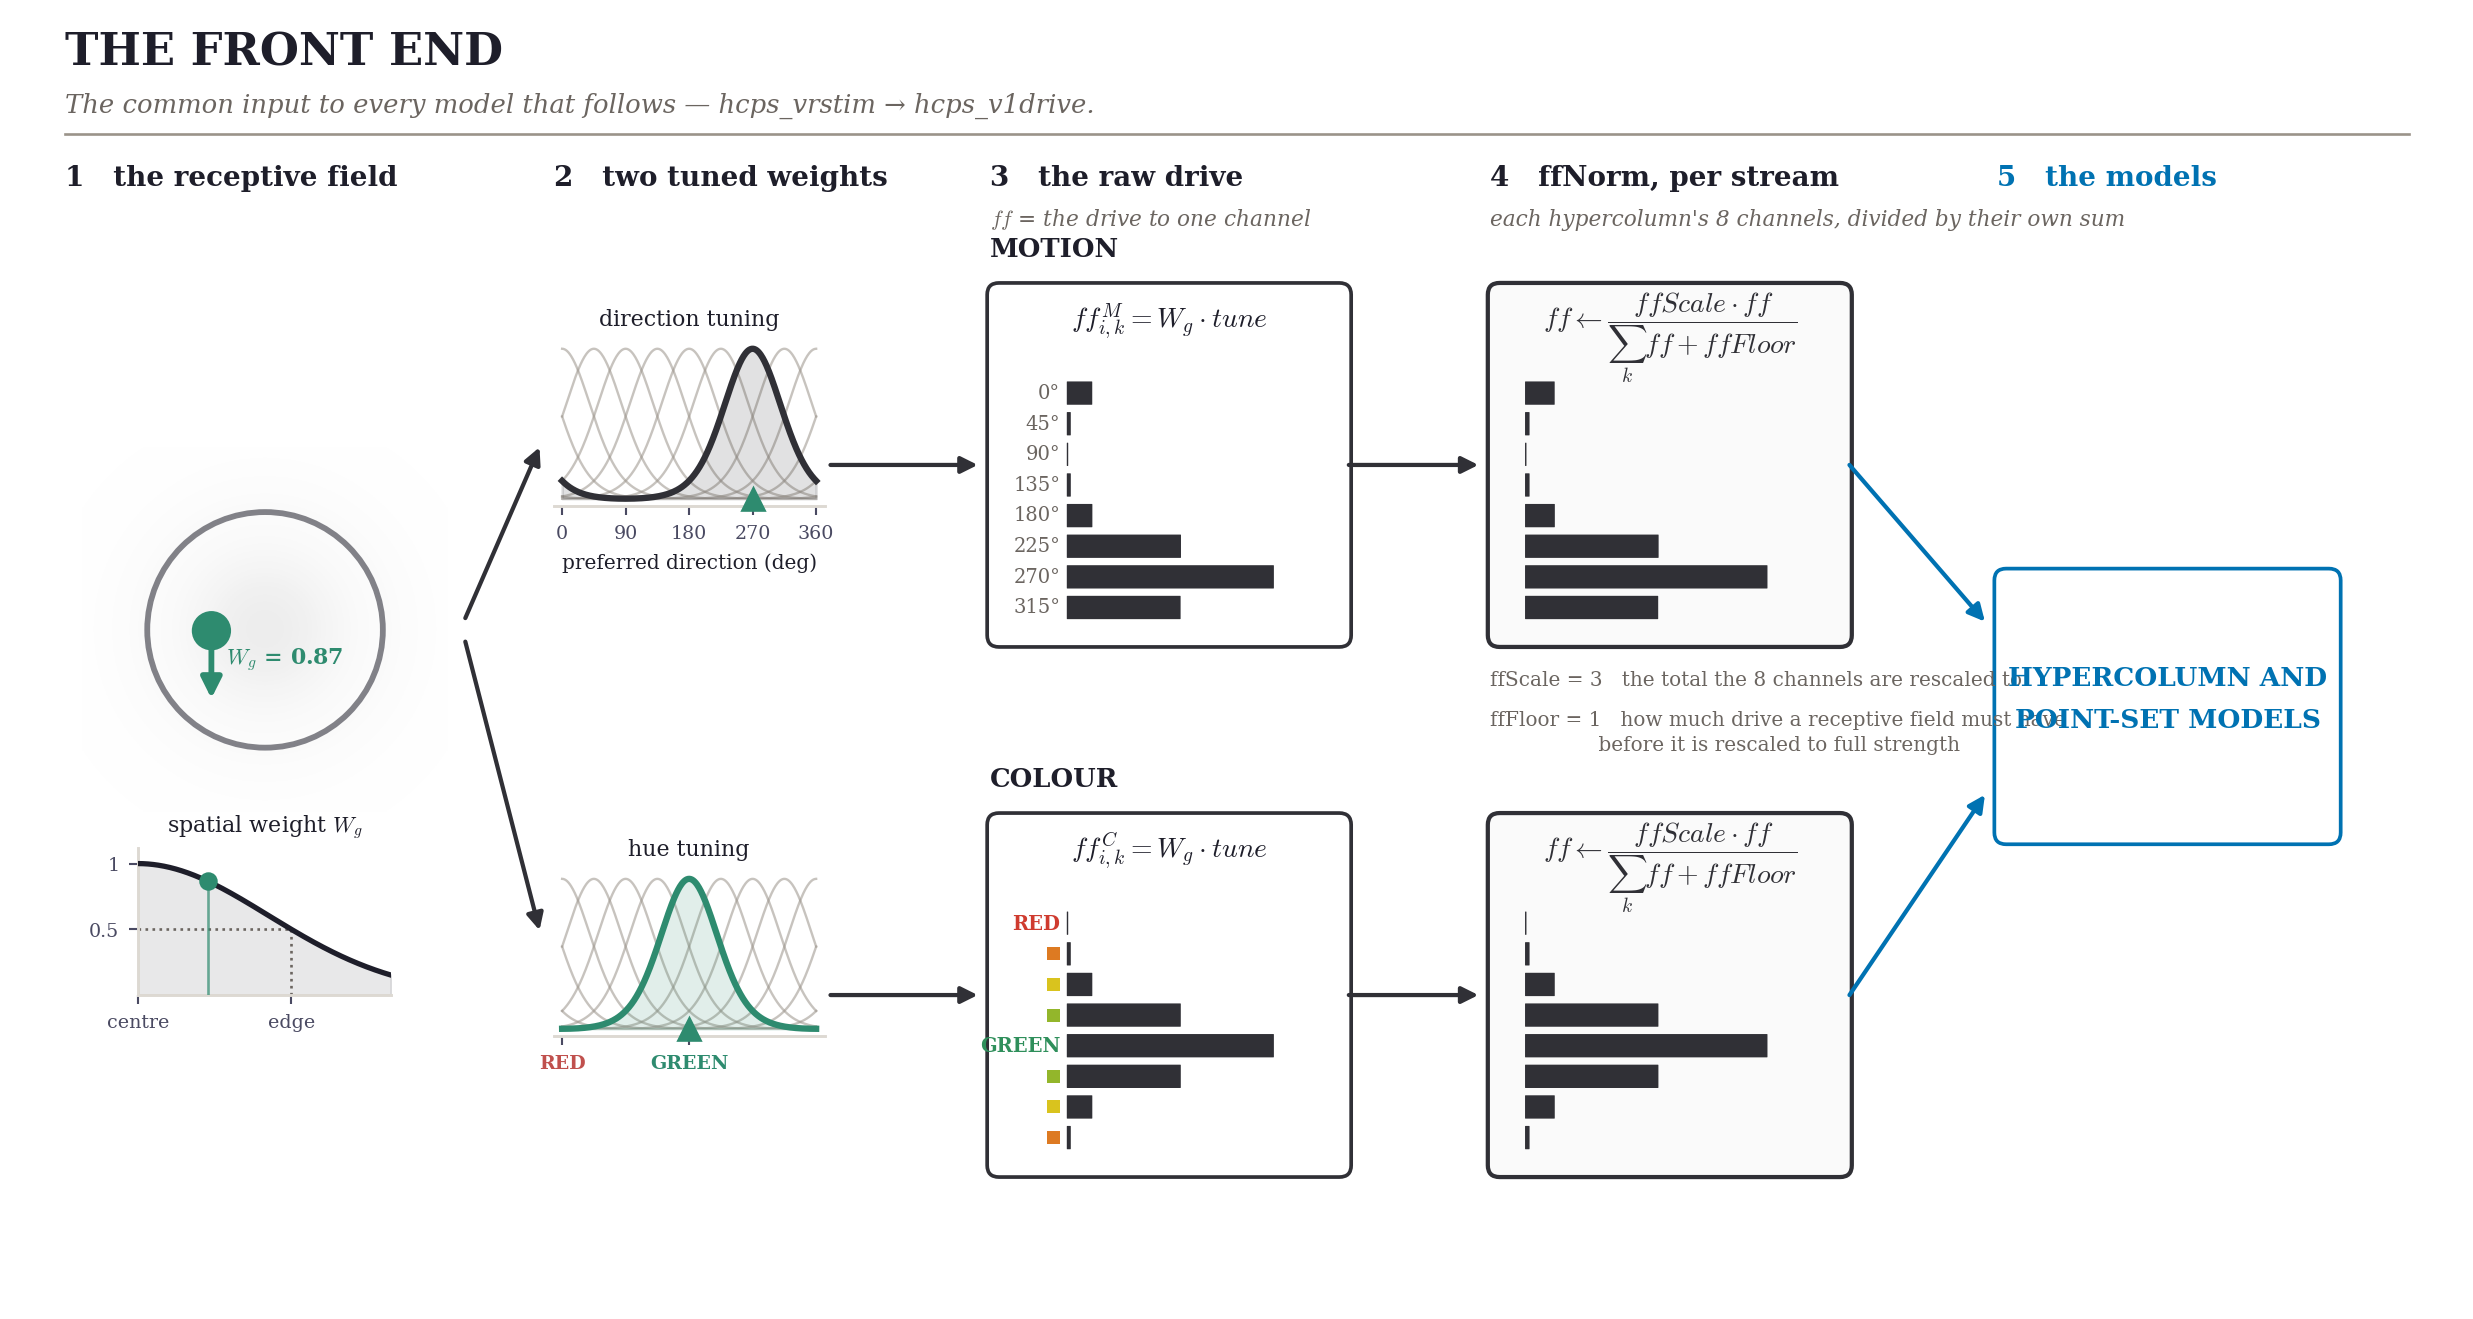
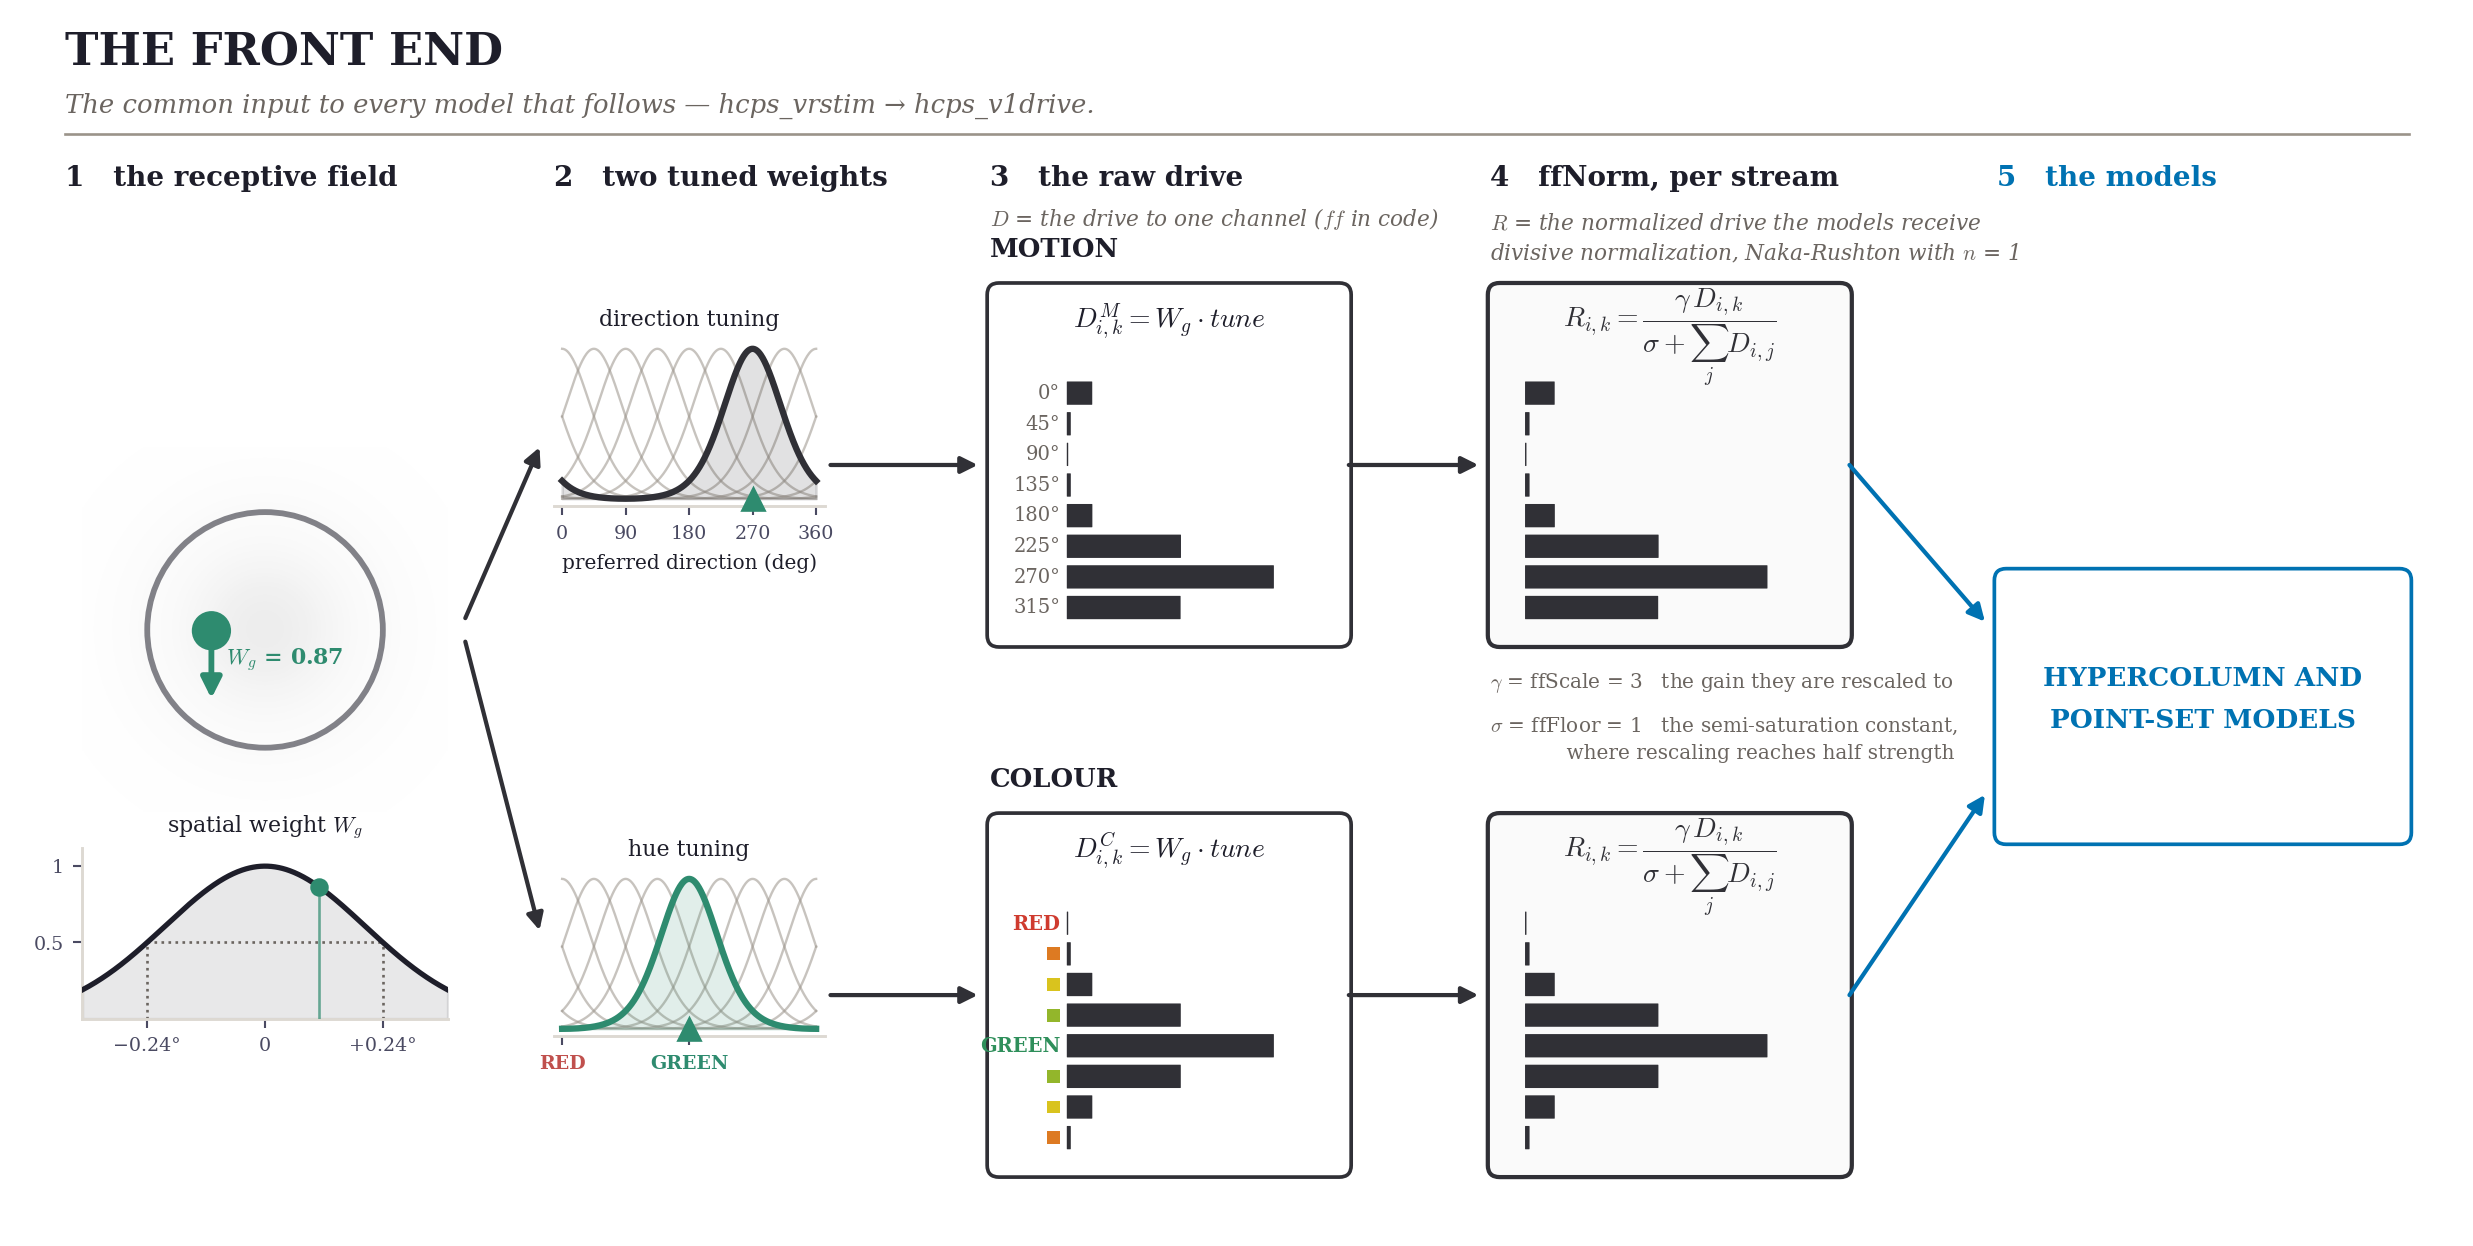
Front-end figure: canonical normalization symbols, full spatial profile, three layout fixes
THE NOTATION. GS: "is there maybe a better variable name? maybe use variable names
commonly associated with this type of normalization." The equation IS the canonical
divisive-normalization form -- Carandini & Heeger 2012, R_j = gamma*D_j^n /
(sigma^n + sum_k D_k^n) -- at n = 1, so the figure now draws it in those symbols and
gives the code names as the mapping. `ff` -> D, `ffScale` -> gamma, `ffFloor` -> sigma,
the semi-saturation constant. That naming is what makes the standing objection precise:
sigma = 1 while a single centred dot delivers a channel sum of 17.15, so an occupied
receptive field sits at 94.5% of the ceiling and every magnitude difference above it is
squeezed into the last 5%.

The MATLAB is deliberately NOT renamed -- Model A is validated and frozen, `ff` is honest
(it is the feedforward drive), and the CIRCUIT normalizer one stage later already uses
Rmax / sigNR / nV1 in the same parameter struct. Two stages, one form, two schemes.

⛔ THE ASSIGNMENT ARROW IS GONE. Panel 4 read "ff <- ..." , carried over from the MATLAB,
which overwrites the array in place. The literature never writes it that way and it left
panel 4's output unnamed. Now R_{i,k} = gamma*D_{i,k} / (sigma + sum_j D_{i,j}): panel 3
makes D, panel 4 makes R, panel 5 takes R. Indexed i,k to match panel 3, and the i is
carried into the sum because the pool is PER POINT-SET -- the only thing on the figure
that now says so, since a third subtitle line does not fit above the motion box.
[…]

diff --git a/Agents/Modeling/sb2010/ps_frontend_figure.py b/Agents/Modeling/sb2010/ps_frontend_figure.py
@@ -91,11 +91,16 @@ NB1 = tune(np.pi/4, KAPPA_HUE)/tune(0.0, KAPPA_HUE)      # +-45 deg neighbours
 NB2 = tune(np.pi/2, KAPPA_HUE)/tune(0.0, KAPPA_HUE)      # +-90 deg
 FLOOR_FRAC = NB2
 
-XL, YL = 21.0, 11.2
-fig = plt.figure(figsize=(XL*0.62, YL*0.62)); ax = fig.add_axes([0,0,1,1])
-ax.set_xlim(0,XL); ax.set_ylim(0,YL); ax.axis("off")
+# ⚠ YBOT CROPS, IT DOES NOT MOVE ANYTHING. The lowest content on the canvas is the colour box at
+# y = 1.225, so a canvas starting at 0 left a bottom margin more than twice the 0.55 the figure
+# keeps at its sides -- a dead band under the whole width. Raising the floor to YBOT trims it
+# without touching a single one of the layout coordinates below, which are all absolute.
+XL, YL, YBOT = 21.0, 11.2, 0.62
+fig = plt.figure(figsize=(XL*0.62, (YL-YBOT)*0.62)); ax = fig.add_axes([0,0,1,1])
+ax.set_xlim(0,XL); ax.set_ylim(YBOT,YL); ax.axis("off")
 def nx(x): return x/XL
-def ny(y): return y/YL
+def ny(y): return (y-YBOT)/(YL-YBOT)          # a POSITION on the canvas
+def nh(h): return h/(YL-YBOT)                 # a HEIGHT -- no offset. Do not use ny() for one.
 def box(x,y,w,h,ec,fc="white",lw=1.3,z=2):
     ax.add_patch(FancyBboxPatch((x,y),w,h,boxstyle="round,pad=0.02,rounding_size=0.10",
                  ec=ec,fc=fc,lw=lw,zorder=z))
@@ -155,7 +160,7 @@ X1, X2, X3, X4, X5 = 0.55, 4.70, 8.40, 12.65, 16.95
 
 # ---------------- 1 the receptive field, magnified ----------------
 ax.text(X1,HDR,"1   the receptive field",fontsize=10.5,weight="bold",color=INK)
-axr = fig.add_axes([nx(X1+0.15),ny(4.30),nx(3.10),ny(3.10)]); axr.set_aspect("equal")
+axr = fig.add_axes([nx(X1+0.15),ny(4.30),nx(3.10),nh(3.10)]); axr.set_aspect("equal")
 axr.set_xlim(-1.55,1.55); axr.set_ylim(-1.55,1.55); axr.axis("off")
 gg=np.linspace(-1.55,1.55,200); GX,GY=np.meshgrid(gg,gg)
 axr.imshow(np.exp(-(GX**2+GY**2)/(2*(RF_R_DEG/SIG_DEG*0.5)**2)),
@@ -174,31 +179,37 @@ axr.text(dx,dy-0.13,"  $W_g$ = %.2f"%WG,ha="left",va="top",fontsize=8.4,color=DC
 # ⭐ It is also self-checking. The circle is drawn at FWHM/2, so the curve MUST pass through 0.5
 # exactly where the circle's edge is; if it ever does not, the disc and the weighting have drifted
 # apart.
-axp = fig.add_axes([nx(X1+0.62),ny(2.75),nx(2.15),ny(1.25)])
-xx = np.linspace(0,1.65,300)
-wg = np.exp(-(xx*RF_R_DEG)**2/(2*SIG_DEG**2))
+# ⭐ GS 2026-08-28: "i think its better to show the full profile -- and show it scaled so that the
+# fall off is correctly portrayed." So the half-profile in centre/edge units is gone. This axes is
+# now placed at the SAME x-position and the SAME width as the disc above it (X1+0.15, 3.10 wide)
+# over the SAME span (+-1.55 RF radii, here written in degrees), so the two are drawn to ONE
+# spatial scale: drop a plumb line from the circle's edge and it lands on the 0.5 crossing.
+axp = fig.add_axes([nx(X1+0.15),ny(2.55),nx(3.10),nh(1.45)])
+XHALF = 1.55*RF_R_DEG                                  # degrees, = the disc panel's half-span
+xx = np.linspace(-XHALF,XHALF,401)
+wg = np.exp(-xx**2/(2*SIG_DEG**2))
 axp.plot(xx,wg,color=INK,lw=2.0,zorder=3)
 axp.fill_between(xx,wg,color=INK,alpha=0.10,zorder=2)
-axp.plot([1,1],[0,0.5],':',color=MUTE,lw=1.0,zorder=2)
-axp.plot([0,1],[0.5,0.5],':',color=MUTE,lw=1.0,zorder=2)
-d_ = OFF/RF_R_DEG
-axp.plot([d_,d_],[0,WG],'-',color=DCOL,lw=1.0,alpha=0.7,zorder=3)
-axp.plot(d_,WG,'o',ms=6,color=DCOL,zorder=5)
-axp.set_xlim(0,1.65); axp.set_ylim(0,1.12)
+for s_ in (-1,1): axp.plot([s_*RF_R_DEG]*2,[0,0.5],':',color=MUTE,lw=1.0,zorder=2)
+axp.plot([-RF_R_DEG,RF_R_DEG],[0.5,0.5],':',color=MUTE,lw=1.0,zorder=2)
+axp.plot([OFF,OFF],[0,WG],'-',color=DCOL,lw=1.0,alpha=0.7,zorder=3)
+axp.plot(OFF,WG,'o',ms=6,color=DCOL,zorder=5)
+axp.set_xlim(-XHALF,XHALF); axp.set_ylim(0,1.12)
 axp.set_yticks([0.5,1.0]); axp.set_yticklabels(["0.5","1"])
-axp.set_xticks([0,1]); axp.set_xticklabels(["centre","edge"])
+axp.set_xticks([-RF_R_DEG,0,RF_R_DEG])
+axp.set_xticklabels([u"−%.2f°"%RF_R_DEG,"0","+%.2f°"%RF_R_DEG])
 axp.tick_params(labelsize=7.2)
 for sp in ("top","right"): axp.spines[sp].set_visible(False)
 axp.set_title("spatial weight $W_g$",fontsize=8.4)
 
 # ---------------- 2 the tuned weights ----------------
 ax.text(X2,HDR,"2   two tuned weights",fontsize=10.5,weight="bold",color=INK)
-axv=fig.add_axes([nx(X2),ny(YM-0.35),nx(2.30),ny(1.40)])
+axv=fig.add_axes([nx(X2),ny(YM-0.35),nx(2.30),nh(1.40)])
 ghosted(axv,KAPPA,DIRV,STIM,"direction tuning")
 axv.set_xticks([0,90,180,270,360]); axv.set_xlabel("preferred direction (deg)",fontsize=7.6)
 axv.plot(np.degrees(DIRV)%360,0,'^',color=DCOL,ms=8,clip_on=False,zorder=6)
 
-axh=fig.add_axes([nx(X2),ny(YC-0.35),nx(2.30),ny(1.40)])
+axh=fig.add_axes([nx(X2),ny(YC-0.35),nx(2.30),nh(1.40)])
 ghosted(axh,KAPPA_HUE,HUE_DOT,GREEN,"hue tuning")
 axh.set_xticks([0,180]); axh.set_xticklabels(["RED","GREEN"])
 for lab,c in zip(axh.get_xticklabels(),[RED,GREEN]): lab.set_color(c); lab.set_weight("bold")
@@ -206,13 +217,18 @@ axh.plot(180,0,'^',color=GREEN,ms=8,clip_on=False,zorder=6)
 
 # ---------------- 3 raw drive ----------------
 ax.text(X3,HDR,"3   the raw drive",fontsize=10.5,weight="bold",color=INK)
-ax.text(X3,HDR-0.34,"$ff$ = the drive to one channel",fontsize=8.2,color=MUTE,style="italic")
+# ⭐ THE SYMBOLS ARE THE LITERATURE'S, NOT THE CODE'S. GS 2026-08-28 asked for "variable names
+# commonly associated with this type of normalization", so the drawn equations use Carandini &
+# Heeger's D / gamma / sigma and the CODE names are given once, here and in panel 4, as the
+# mapping. Drawing `ff` and `ffScale` made a reader who knows the form fail to recognise it.
+ax.text(X3,HDR-0.34,"$D$ = the drive to one channel ($ff$ in code)",
+        fontsize=8.2,color=MUTE,style="italic")
 ax.text(X3,YM+BH/2+0.24,"MOTION",fontsize=9.8,weight="bold",color=INK)
 ax.text(X3,YC+BH/2+0.24,"COLOUR",fontsize=9.8,weight="bold",color=INK)
 SC = 1.75/max(ffM_raw.max(),ffC_raw.max())
 for (yc_,vals,col,lab) in ((YM,ffM_raw,STIM,"M"),(YC,ffC_raw,STIM,"C")):
     box(X3,yc_-BH/2,BW,BH,col,"white",1.4)
-    ax.text(X3+BW/2,yc_+BH/2-0.36,r"$ff^{%s}_{i,k}=W_g\cdot tune$"%lab,fontsize=10.5,
+    ax.text(X3+BW/2,yc_+BH/2-0.36,r"$D^{%s}_{i,k}=W_g\cdot tune$"%lab,fontsize=10.5,
             color=INK,ha="center")
     bars(X3+0.66,yc_-BH/2+0.22,vals,col,SC,ticks=True,huelab=(lab=="C"))
 
@@ -223,8 +239,25 @@ ax.text(X4,HDR,"4   ffNorm, per stream",fontsize=10.5,weight="bold",color=INK)
 # ⚠ `ffScale` = 3 is a BARE LITERAL in `hcps_op.m`'s parameter struct with no derivation on
 # record, and the project's own note says `ffNorm = true` "was never argued". So the label states
 # its EFFECT -- the total each hypercolumn is rescaled to -- and claims no reason for the value.
-ax.text(X4,HDR-0.34,"each hypercolumn's 8 channels, divided by their own sum",
-        fontsize=8.2,color=MUTE,style="italic")
+# ⭐ NAMED FOR WHAT IT IS. GS 2026-08-28: "maybe use variable names commonly associated with this
+# type of normalization if appropriate in this context." It IS the canonical divisive-normalization
+# form -- Carandini & Heeger 2012 write R_j = gamma * D_j^n / (sigma^n + sum_k D_k^n), and this is
+# that with n = 1: `ff` is D, `ffScale` is the gain gamma, and `ffFloor` is the semi-saturation
+# constant sigma. Saying so costs one line and tells a reader who knows the literature that the
+# FORM needs no defence -- only the VALUE of sigma does.
+# ⚠ The MATLAB is deliberately NOT renamed. Model A is validated and frozen, `ff` is honest
+# (it is the feedforward drive, per `ps_extract`), and a rename across it buys no science. Note
+# though that the CIRCUIT normalizer one stage later already uses the literature names in the same
+# parameter struct -- `Rmax`, `sigNR`, `nV1` -- so the two stages run one form under two schemes.
+# ⚠ va="top" IS REQUIRED here. matplotlib anchors a multi-line string on its LAST baseline, so
+# adding the second line pushed the first one UP into the header row and straight through
+# "4  ffNorm, per stream" and "5  the models". Hanging it from the top makes it grow downward.
+# ⚠ TWO LINES IS THE CEILING. A third clears the motion box top (y = 8.775) by less than its
+# own descender. "each hypercolumn's 8 channels, divided by their own sum" was the line dropped
+# to make room: the equation's own sum_k says it, and the panel header already says "per stream".
+ax.text(X4,HDR-0.22,"$R$ = the normalized drive the models receive\n"
+        "divisive normalization, Naka-Rushton with $n$ = 1",
+        fontsize=8.2,color=MUTE,style="italic",va="top",linespacing=1.45)
 SN = 2.05/max(ffM_nrm.max(),ffC_nrm.max())
 for (yc_,vals,col) in ((YM,ffM_nrm,STIM),(YC,ffC_nrm,STIM)):
     box(X4,yc_-BH/2,BW,BH,col,"#fafafa",1.6)
@@ -232,26 +265,56 @@ for (yc_,vals,col) in ((YM,ffM_nrm,STIM),(YC,ffC_nrm,STIM)):
     # as to why it was set to 3". Naming them makes them visible AS constants -- and `ffFloor` in
     # particular is a knob, not a detail: it is what decides whether a faint input keeps its
     # magnitude or is rescaled to full strength. Values are given once, below.
-    ax.text(X4+BW/2,yc_+BH/2-0.44,r"$ff \leftarrow \dfrac{ffScale \cdot ff}{\sum_k ff + ffFloor}$",
+    # Carandini & Heeger 2012, R_j = gamma * D_j^n / (sigma^n + sum_k D_k^n), at n = 1.
+    # ⛔ NOT "D <- ...". The arrow was ASSIGNMENT, carried over from the MATLAB, which overwrites
+    # the array in place. The literature never writes it that way, and it left panel 4's output
+    # with no name at all -- the arrow into panel 5 was carrying an unnamed quantity. Panel 3 now
+    # makes D, panel 4 makes R, panel 5 takes R.
+    # ⚠ The free index and the summation index MUST differ: j runs over the channel being
+    # normalized, k over the pool it is divided by. The first version used k for both.
+    # ⚠ INDEXED i,k TO MATCH PANEL 3, and because the pool is PER POINT-SET. Panel 3 writes
+    # D^M_{i,k} with i the point-set and k the channel; a bare R_j here would have used a third
+    # letter for the same axis. Carrying i into the denominator's sum is also the only thing on
+    # the figure that says the 8 channels are divided by THEIR OWN total and not a global one --
+    # which is what the dropped subtitle line used to say.
+    ax.text(X4+BW/2,yc_+BH/2-0.44,
+            r"$R_{i,k} = \dfrac{\gamma\, D_{i,k}}{\sigma + \sum_j D_{i,j}}$",
             fontsize=10.5,color=col,ha="center",va="center")
     bars(X4+0.30,yc_-BH/2+0.22,vals,col,SN)
     if yc_ == YM:
         # ⚠ Named in the text rather than pointed at. Leader lines from here either cross the box
         # or land in the header row, which is what the first attempt did.
-        ax.text(X4,yc_-BH/2-0.22,"ffScale = %g   the total the 8 channels are rescaled to"%FFSCALE,
+        # ⚠ WIDTH IS LOAD-BEARING, and it was the bug. Panel 4's column runs X4 -> X5 = 4.30
+        # units wide; the earlier wording measured 4.49 and 4.85 and so ran straight underneath
+        # panel 5's box. Shortened until both fit -- "the 8 channels" is already said in this
+        # panel's own subtitle, so "they" carries it. Widest line is now 3.97. Re-measure with
+        # get_window_extent if this is reworded; the gap here is only 4.30 - 3.97 = 0.33.
+        ax.text(X4,yc_-BH/2-0.22,
+                "$\\gamma$ = ffScale = %g   the gain they are rescaled to"%FFSCALE,
                 fontsize=7.6,color=MUTE,va="top")
-        ax.text(X4,yc_-BH/2-0.56,"ffFloor = %g   how much drive a receptive field must have\n"
-                "                 before it is rescaled to full strength"%FFFLOOR,
-                fontsize=7.6,color=MUTE,va="top",linespacing=1.4)
+        # ⭐ `ffFloor` IS Naka-Rushton's semi-saturation constant, and exactly: the summed output
+        # is ffScale*S/(S + ffFloor), which is half of ffScale precisely when S = ffFloor. Naming
+        # it that is what makes GS's objection precise -- a single dot at the RF centre delivers
+        # S = 17.15, seventeen times above half-saturation, so an occupied receptive field sits at
+        # 94.5% of the ceiling and every magnitude difference above it is squeezed into the last
+        # 5%. That is the saturation horn of Grossberg's noise-saturation dilemma.
+        ax.text(X4,yc_-BH/2-0.60,
+                "$\\sigma$ = ffFloor = %g   the semi-saturation constant,\n"
+                "            where rescaling reaches half strength"%FFFLOOR,
+                fontsize=7.6,color=MUTE,va="top",linespacing=1.45)
 
 # ---------------- 5 the circuit ----------------
 # ⭐ GS: "lets have it feed into a generic Hypercolumn and Point-Set Models. this is the common
 # front end for the models to follow." So the last box names the FAMILY, not one circuit -- the
 # figure sits ahead of all of them and should not appear to belong to any one.
 ax.text(X5,HDR,"5   the models",fontsize=10.5,weight="bold",color=COOP)
-box(X5,4.05,2.90,2.30,COOP,"white",1.4)
-ax.text(X5+1.45,5.38,"HYPERCOLUMN AND",ha="center",fontsize=10.0,weight="bold",color=COOP)
-ax.text(X5+1.45,5.02,"POINT-SET MODELS",ha="center",fontsize=10.0,weight="bold",color=COOP)
+# ⚠ THE BOX WAS TOO NARROW FOR ITS OWN LABEL. "HYPERCOLUMN AND" measures 2.72 units at
+# fontsize 10 bold and the box was 2.90 -- 0.09 of clearance a side, which reads as overflow.
+# 3.50 takes it out to XL - 0.55, the same margin the figure keeps on the left.
+BOXW = 3.50
+box(X5,4.05,BOXW,2.30,COOP,"white",1.4)
+ax.text(X5+BOXW/2,5.38,"HYPERCOLUMN AND",ha="center",fontsize=10.0,weight="bold",color=COOP)
+ax.text(X5+BOXW/2,5.02,"POINT-SET MODELS",ha="center",fontsize=10.0,weight="bold",color=COOP)
 for a,b,c in [((X1+3.40,5.95),(X2-0.12,YM+0.15),STIM),((X1+3.40,5.75),(X2-0.12,YC+0.55),STIM),
               ((X2+2.35,YM),(X3-0.10,YM),STIM),((X2+2.35,YC),(X3-0.10,YC),STIM),
               ((X3+BW,YM),(X4-0.10,YM),STIM),((X3+BW,YC),(X4-0.10,YC),STIM),
